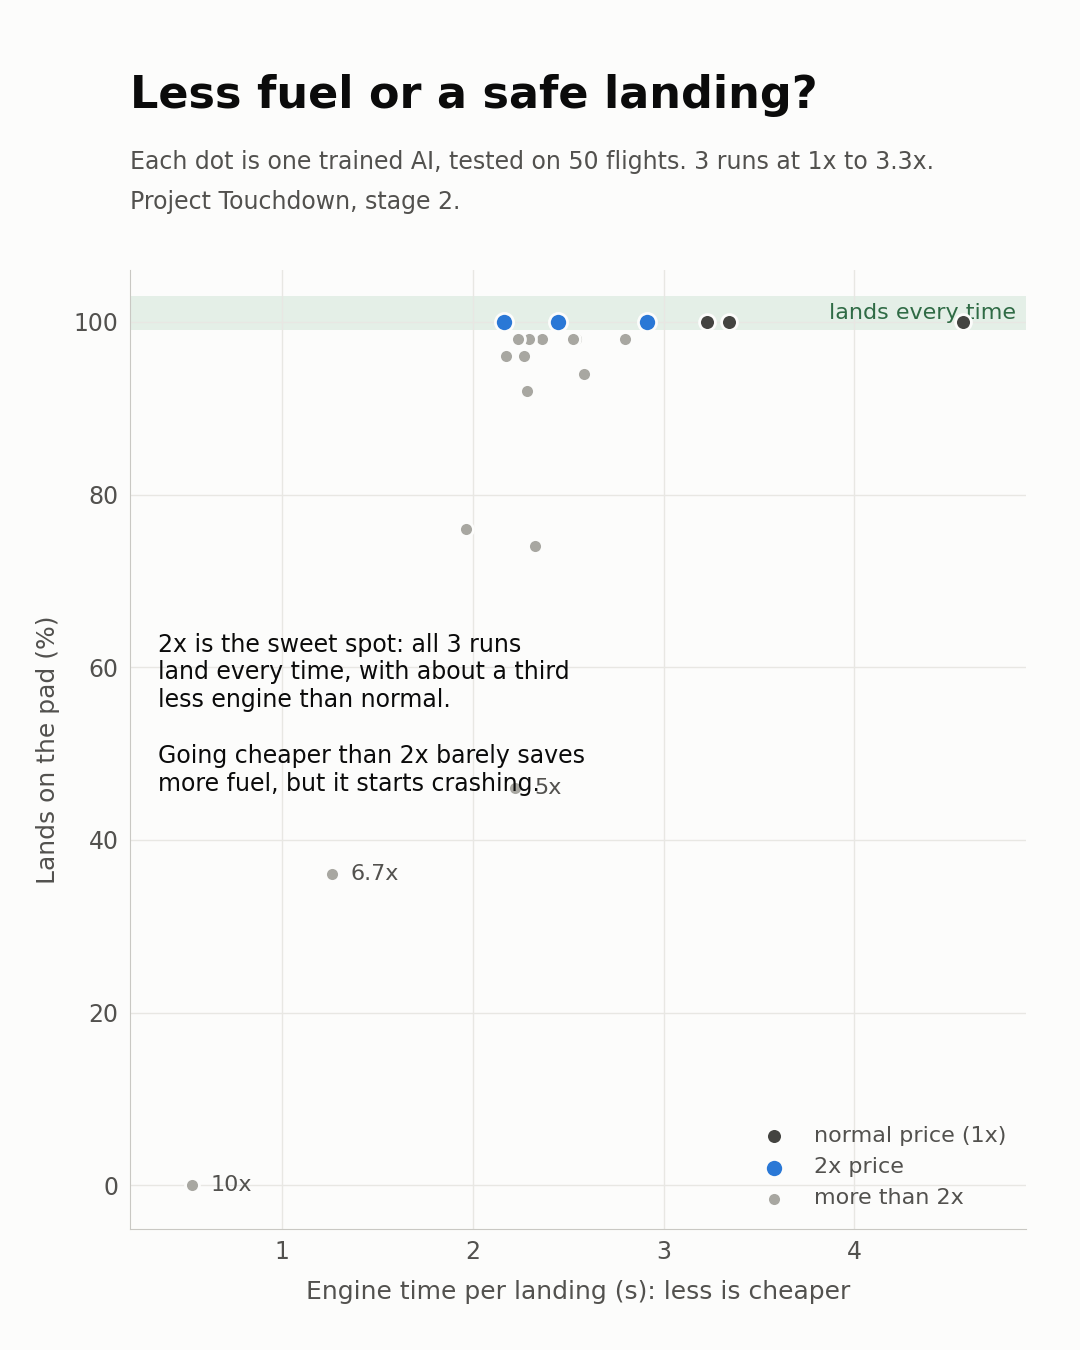
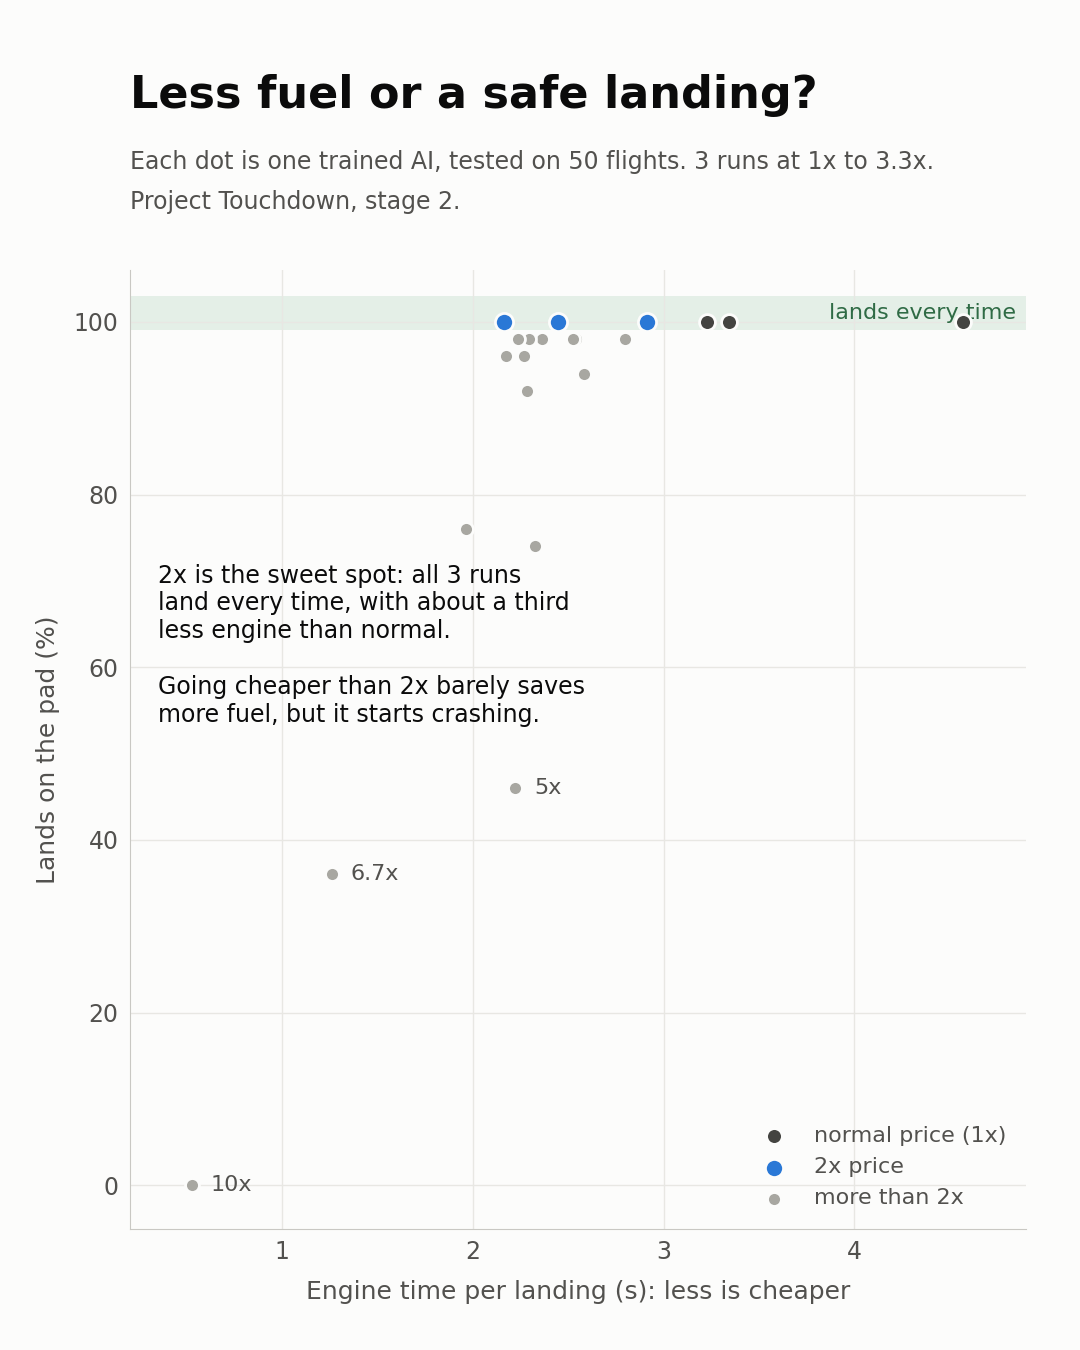
Chart note clear of the dots

Changed region(s): [[0.1528, 0.4044, 0.55, 0.5911]]

diff --git a/fuel_pareto.py b/fuel_pareto.py
@@ -55,7 +55,7 @@ ax.set_ylim(-5, 106)
 ax.set_xlabel("Engine time per landing (s): less is cheaper", fontsize=18, color=INK2, labelpad=12)
 ax.set_ylabel("Lands on the pad (%)", fontsize=18, color=INK2, labelpad=10)
 
-ax.text(0.35, 64, "2x is the sweet spot: all 3 runs\nland every time, with about a third\nless engine than normal.\n\nGoing cheaper than 2x barely saves\nmore fuel, but it starts crashing.",
+ax.text(0.35, 72, "2x is the sweet spot: all 3 runs\nland every time, with about a third\nless engine than normal.\n\nGoing cheaper than 2x barely saves\nmore fuel, but it starts crashing.",
         fontsize=17, color=INK, va="top")
 
 fig.text(0.12, 0.92, "Less fuel or a safe landing?", fontsize=32, color=INK, weight="bold")
